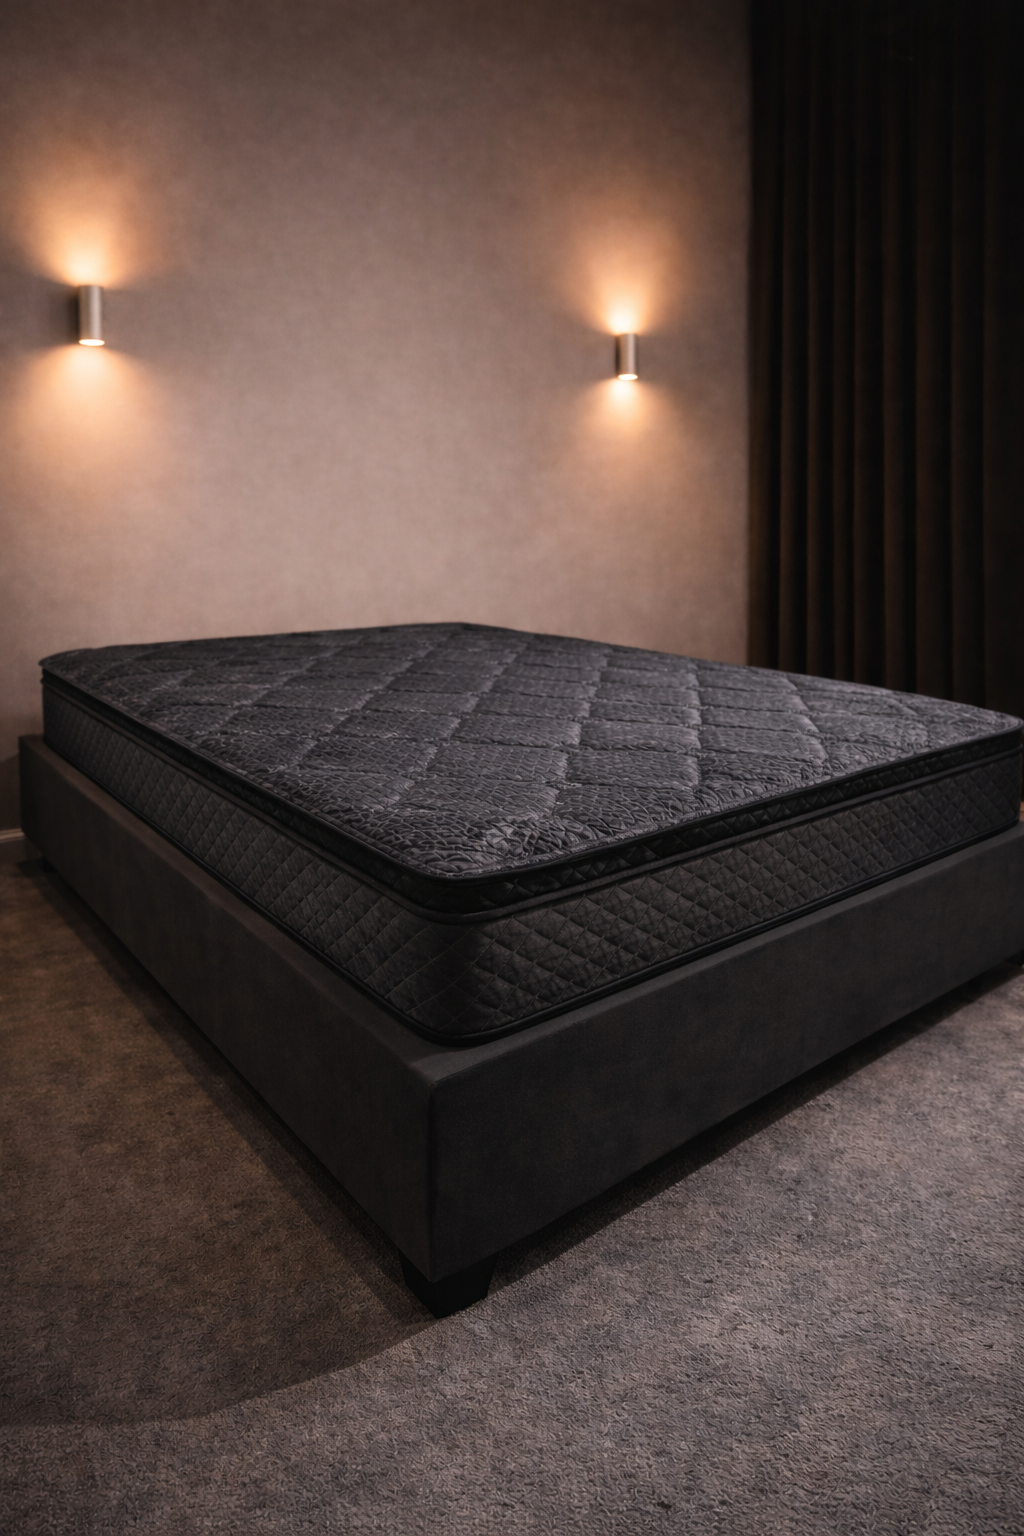
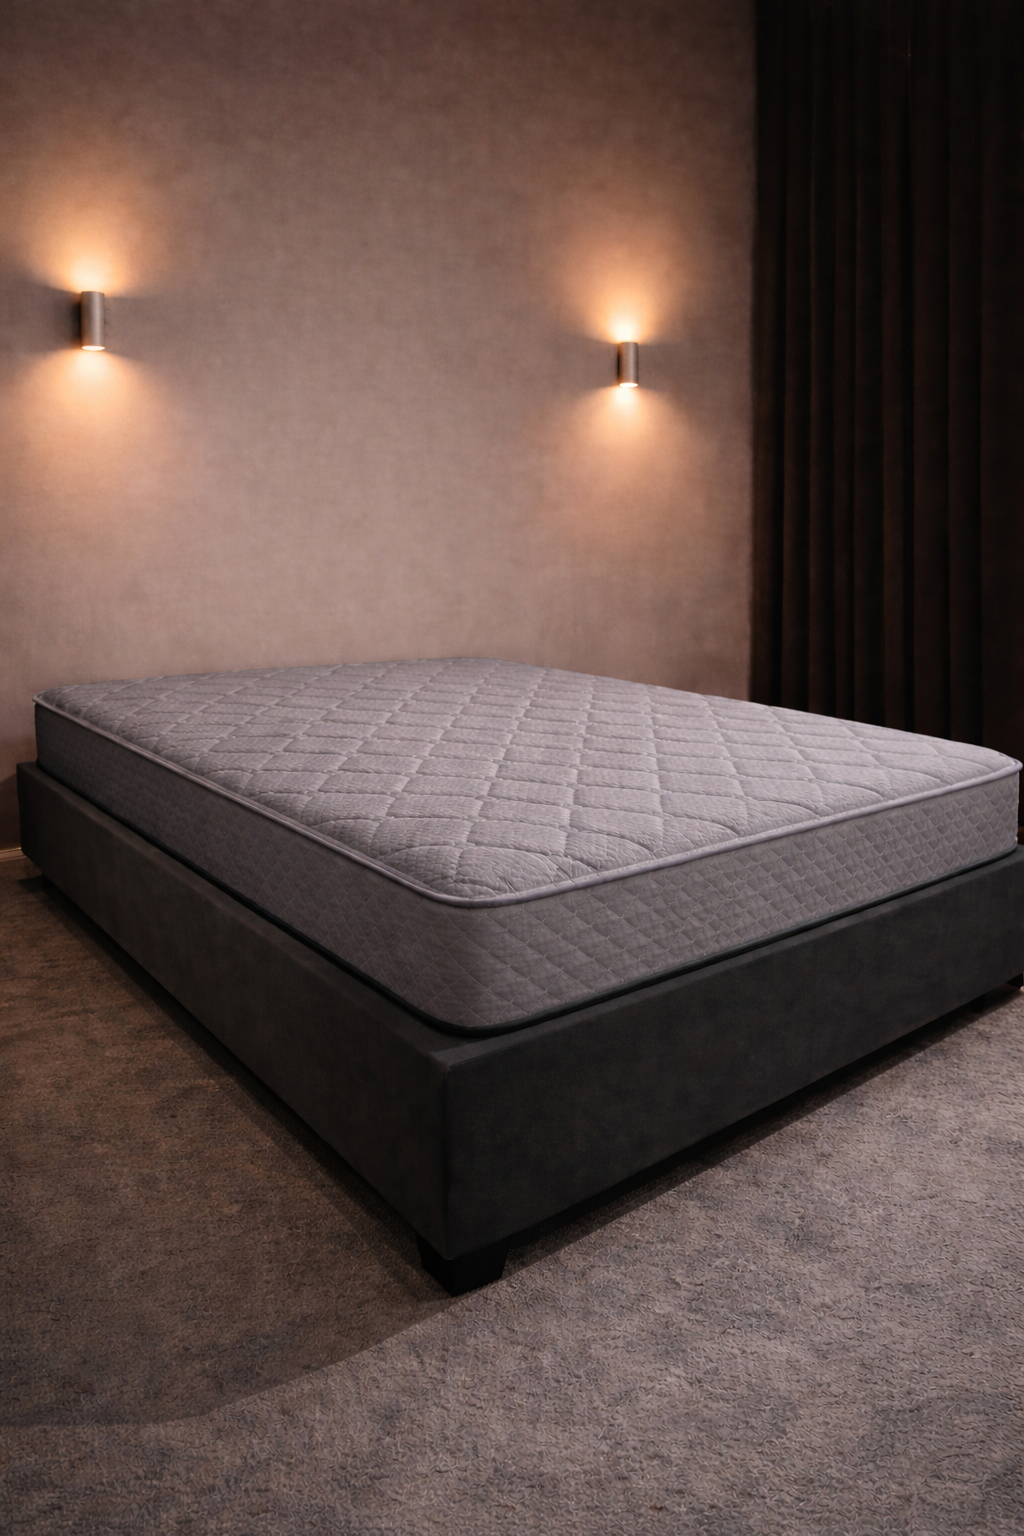
as
asd

diff --git a/baza-yatak.html b/baza-yatak.html
@@ -283,9 +283,7 @@
             font-size: 1.3rem;
         }
 
-        /* --- YENİ EKLENEN: KAYDIRMA İPUÇLARI --- */
-
-        /* 1. Navigasyon Okları (Sağ/Sol) */
+        /* KAYDIRMA İPUÇLARI */
         .swiper-button-next,
         .swiper-button-prev {
             color: var(--gold) !important;
@@ -302,7 +300,6 @@
             font-weight: bold;
         }
 
-        /* 2. Animasyonlu El İpucu */
         .swipe-instruction {
             position: fixed;
             top: 50%;
@@ -310,7 +307,6 @@
             transform: translate(-50%, -50%);
             z-index: 9999;
             pointer-events: none;
-            /* Tıklamayı engellemesin */
             display: flex;
             flex-direction: column;
             align-items: center;
@@ -319,8 +315,6 @@
             padding: 20px;
             border-radius: 20px;
             color: #fff;
-
-            /* Animasyon: Görün -> Kaydır -> Yok Ol */
             animation: fadeOutHint 3.5s forwards;
         }
 
@@ -369,7 +363,6 @@
             }
         }
 
-
         /* --- MASAÜSTÜ (PC) İÇİN HİBRİT AYAR --- */
         @media (min-width: 768px) {
             .swiper-catalog {
@@ -412,7 +405,6 @@
                 transform: translateX(-50%);
             }
 
-            /* PC'de el animasyonuna gerek yok */
             .swipe-instruction {
                 display: none;
             }
@@ -446,40 +438,61 @@
             <div class="swiper-slide">
                 <div class="p-image-area"><img src="img/duz_baza.jpg"></div>
                 <div class="p-info-area">
-                    <div class="p-title">Düz Baza Seti</div>
-                    <div class="p-desc">Sade, sandıklı ve kullanışlı baza seti.</div>
+                    <div class="p-title">Atlas Baza Seti</div>
+                    <div class="p-desc">Sade tasarımıyla yatak odanıza ferahlık katan Atlas Baza Seti, beklentilerinizi
+                        aşan bir sağlamlık sunar. Güçlendirilmiş profil iskeleti sayesinde uzun yıllar ilk günkü formunu
+                        korur. Geniş iç hacmi hayatınızı kolaylaştırırken, yüksek ayak yapısı ile robot süpürge
+                        kullanımına tam uyumludur.</div>
                     <div id="list-duz-baza"></div>
                 </div>
             </div>
+
             <div class="swiper-slide">
                 <div class="p-image-area"><img src="img/kapitone_luks.jpg"></div>
                 <div class="p-info-area">
                     <div class="p-title">Kapitone Lüks</div>
-                    <div class="p-desc">Premium kapitone işçilikli set.</div>
+                    <div class="p-desc">Premium işçiliğin göz alıcı şıklığıyla tanışın. Yatak odanıza modern bir zarafet
+                        katarken, ergonomik amortisör sistemiyle eşsiz bir kullanım kolaylığı sunar. Ekstra
+                        güçlendirilmiş çelik konstrüksiyonu uzun ömürlü kullanım sağlarken, yüksek ayakları sayesinde
+                        robot süpürgenizin rahatça temizlik yapmasına olanak tanır.</div>
                     <div id="list-kapitone-luks"></div>
                 </div>
             </div>
+
             <div class="swiper-slide">
                 <div class="p-image-area"><img src="img/kare_kapitone.jpg"></div>
                 <div class="p-info-area">
                     <div class="p-title">Kare Kapitone</div>
-                    <div class="p-desc">Modern kare dikişli set.</div>
+                    <div class="p-desc">Modern geometrik çizgileri ve kusursuz el işçiliğini bir araya getiren estetik
+                        harikası. Kusursuz şıklığının yanı sıra açılıp kapanırken sağladığı hafiflik ve konforla günlük
+                        hayatınızı kolaylaştırır. Dayanıklı iç yapısı yıllara meydan okurken, robot süpürgelere uygun
+                        yüksek ayak tasarımıyla temizliği dert olmaktan çıkarır.</div>
                     <div id="list-kare-kapitone"></div>
                 </div>
             </div>
+
             <div class="swiper-slide">
                 <div class="p-image-area"><img src="img/havuzlu_bubble.jpg"></div>
                 <div class="p-info-area">
                     <div class="p-title">Havuzlu Bubble</div>
-                    <div class="p-desc">Havuzlu sistem yatak kaymasını önler.</div>
+                    <div class="p-desc">Koleksiyonumuzun en iddialı ve tartışmasız en premium parçası! Yatağın kaymasını
+                        kesin olarak önleyen özel havuz sistemi ve fütüristik bubble tasarımıyla yatak odanızı lüks bir
+                        suit odaya çevirir. Kelimenin tam anlamıyla "ömürlük" bir kullanım sunan bu modelimizi zevkinize
+                        göre ister şık yüksek ayaklarıyla, isterseniz yere sıfır ayaksız formda kullanabilirsiniz.
+                        Ayaklı kullanım tercih edildiğinde robot süpürgelerle kusursuz uyum içindedir.</div>
                     <div id="list-havuzlu-bubble"></div>
                 </div>
             </div>
+
             <div class="swiper-slide">
                 <div class="p-image-area"><img src="img/havuzlu_chester.jpg"></div>
                 <div class="p-info-area">
                     <div class="p-title">Havuzlu Chester</div>
-                    <div class="p-desc">Klasik chester ve havuzlu baza uyumu.</div>
+                    <div class="p-desc">Klasik Chester asaletinin havuzlu baza inovasyonuyla harmanlandığı, premium
+                        kalitenin zirve noktası! İhtişamlı görüntüsünün ardında, nesilden nesile aktarabileceğiniz
+                        "ömürlük" bir dayanıklılık yatar. Havuzlu yapısı yataktaki hareketliliği engeller. Tercihinize
+                        bağlı olarak ihtişamlı ayaklarıyla yükseltebilir veya tamamen yere oturan ayaksız konseptte
+                        kullanabilirsiniz. Ayaklı kurulumda robot süpürge geçişine tam imkan sağlar.</div>
                     <div id="list-havuzlu-chester"></div>
                 </div>
             </div>
@@ -488,47 +501,72 @@
                 <div class="p-image-area"><img src="img/yatak_tavsan1.jpg"></div>
                 <div class="p-info-area">
                     <div class="p-title">Tavşan Tüyü Pedsiz</div>
-                    <div class="p-desc">Dengeli konfor, özel dokulu.</div>
+                    <div class="p-desc">Yüzeyde düz bir görünüm sevenler için özel tasarım! Standart yataklardan çok
+                        daha kalın ve dolgun bir yapıya sahiptir. Konforu zirveye taşıyan özel ped katmanı, yatağın iç
+                        kısmına ustalıkla gizlenmiştir. Birbirinden bağımsız çalışan Pocket (Paket) Yay sistemi ve tam
+                        ortopedik yapısı sayesinde omurganıza kusursuz destek verir, eşlerin dönüş hareketlerini
+                        birbirine hissettirmez.</div>
                     <div id="list-tavsan-pedsiz"></div>
                 </div>
             </div>
+
             <div class="swiper-slide">
                 <div class="p-image-area"><img src="img/yatak_tavsan2.jpg"></div>
                 <div class="p-info-area">
                     <div class="p-title">Tavşan Tüyü Pedli</div>
-                    <div class="p-desc">Ekstra yumuşak ped ile yüksek konfor.</div>
+                    <div class="p-desc">Üst yüzeyindeki belirgin ped katmanı sayesinde çarşaf kullanımını son derece
+                        kolaylaştıran, pratik ve lüks bir deneyim. Diğer modellerimize kıyasla çok daha yumuşak ve esnek
+                        bir sünger katmanına sahiptir. Tam ortopedik Pocket (Paket) Yay sistemi ile donatılan bu ürün,
+                        vücudunuzun tüm boşluklarını doldurarak kesintisiz bir uyku sunar.</div>
                     <div id="list-tavsan-pedli"></div>
                 </div>
             </div>
+
             <div class="swiper-slide">
                 <div class="p-image-area"><img src="img/yatak_afrika.jpg"></div>
                 <div class="p-info-area">
                     <div class="p-title">Afrika Lüks</div>
-                    <div class="p-desc">Çocuk gelişim serisi (Ecem).</div>
+                    <div class="p-desc">Özellikle çocuk ve genç gelişimi için ortopedistler tarafından da önerilen,
+                        sağlıklı ve sert yüzeyli uzman yatağımız. Dünyaca ünlü İşbir marka sünger kalitesi ve yıllara
+                        meydan okuyan klasik Bonel Yay sistemiyle üretilmiştir. Gelişim çağındaki bireylerin omurga
+                        sağlığını koruyan sağlam ve dirençli bir yapıya sahiptir.</div>
                     <div id="list-afrika-luks"></div>
                 </div>
             </div>
+
             <div class="swiper-slide">
                 <div class="p-image-area"><img src="img/yatak_asya.jpg"></div>
                 <div class="p-info-area">
                     <div class="p-title">Asya Lüks</div>
-                    <div class="p-desc">Düz yapı, tam destek (Tutku).</div>
+                    <div class="p-desc">Afrika modelimizin sağlıklı çocuk gelişim felsefesini ve Bonel Yay
+                        dayanıklılığını, daha yumuşak bir yatış deneyimi arayanlar için yeniden yorumladık. Üst düzey
+                        İşbir marka sünger katmanının daha yumuşak formda kullanıldığı bu model, sağlıklı gelişimi
+                        maksimum konforla buluşturur.</div>
                     <div id="list-asya-luks"></div>
                 </div>
             </div>
+
             <div class="swiper-slide">
                 <div class="p-image-area"><img src="img/yatak_avrupa.jpg"></div>
                 <div class="p-info-area">
                     <div class="p-title">Avrupa Jumbo</div>
-                    <div class="p-desc">Kalın pedli üst yüzey.</div>
+                    <div class="p-desc">Gücünü ekstra dayanıklı Herkül Yay sisteminden alan, çok yüksek ağırlıkları dahi
+                        yıllarca hiçbir bozulma ve çökme yaşamadan taşıyabilen devasa bir sağlamlık abidesi. Bu sert ve
+                        dayanıklı yayın üzeri, size bulutların üzerinde hissettirecek ekstra yumuşak bir ped tabakasıyla
+                        kaplanmıştır. Hem sarsılmaz bir güç hem de kusursuz bir yumuşaklık arayanlar için idealdir.
+                    </div>
                     <div id="list-avrupa-jumbo"></div>
                 </div>
             </div>
+
             <div class="swiper-slide">
                 <div class="p-image-area"><img src="img/yatak_antartika.jpg"></div>
                 <div class="p-info-area">
                     <div class="p-title">Antartika Pedli</div>
-                    <div class="p-desc">Serinletici özel kumaş.</div>
+                    <div class="p-desc">Avrupa Jumbo'nun yüksek ağırlık taşıma kapasitesini ve yenilmez Herkül Yay
+                        sistemini baz alan, sıcak yaz aylarına özel mucizevi yatağımız. Ekstra yumuşak konfor pedinin
+                        üzerinde kullanılan özel serinletici kumaş teknolojisi, terlemeyi minimize ederek en sıcak
+                        gecelerde bile ferah ve dinlendirici bir uyku vadeder.</div>
                     <div id="list-antartika-pedli"></div>
                 </div>
             </div>
@@ -554,20 +592,21 @@
     <script>
         // --- VERİ TABANI ---
         const sets = [
-            { id: "list-duz-baza", name: "Düz Baza Seti", prices: [9750, 11000, 12000, 14000, 15000] },
-            { id: "list-kapitone-luks", name: "Kapitone Lüks", prices: [11000, 12000, 14000, 15500, 16000] },
-            { id: "list-kare-kapitone", name: "Kare Kapitone", prices: [11000, 12000, 14000, 15500, 16000] },
-            { id: "list-havuzlu-bubble", name: "Havuzlu Bubble", prices: [15000, 16500, 18500, 23000, 23500] },
-            { id: "list-havuzlu-chester", name: "Havuzlu Chester", prices: [15000, 16500, 18500, 23000, 23500] }
+            // İsim 'Atlas' olarak güncellendi, ID list-duz-baza olarak korundu ki kod bozulmasın
+            { id: "list-duz-baza", name: "Atlas Baza Seti", prices: [11200, 12650, 13800, 16100, 17250] },
+            { id: "list-kapitone-luks", name: "Kapitone Lüks", prices: [12650, 13800, 16100, 17850, 18400] },
+            { id: "list-kare-kapitone", name: "Kare Kapitone", prices: [12650, 13800, 16100, 17850, 18400] },
+            { id: "list-havuzlu-bubble", name: "Havuzlu Bubble", prices: [17250, 19000, 21300, 26450, 27050] },
+            { id: "list-havuzlu-chester", name: "Havuzlu Chester", prices: [17250, 19000, 21300, 26450, 27050] }
         ];
 
         const beds = [
-            { id: "list-tavsan-pedsiz", name: "Tavşan Tüyü Pedsiz", pre: [5000, 5250, 6500, 7400, 8000], eco: [4100, 4200, 5000, 5500, 6000] },
-            { id: "list-tavsan-pedli", name: "Tavşan Tüyü Pedli", pre: [5490, 5600, 7000, 8500, 9000], eco: [4400, 4500, 5400, 6000, 6500] },
-            { id: "list-afrika-luks", name: "Afrika Lüks", pre: [3500, 3650, 4500, 5000, 5500], eco: [2800, 2900, 3750, 4250, 4250] },
-            { id: "list-asya-luks", name: "Asya Lüks", pre: [4050, 4250, 5050, 6000, 6000], eco: [3200, 3300, 4000, 4500, 4500] },
-            { id: "list-avrupa-jumbo", name: "Avrupa Jumbo", pre: [4500, 4700, 5500, 6500, 7000], eco: [4000, 4100, 4600, 5100, 5600] },
-            { id: "list-antartika-pedli", name: "Antartika Pedli", pre: [4750, 4950, 5750, 6750, 7250], eco: [4250, 4350, 4850, 5350, 5850] }
+            { id: "list-tavsan-pedsiz", name: "Tavşan Tüyü Pedsiz", pre: [5750, 6050, 7500, 8500, 9200], eco: [4700, 4850, 5750, 6350, 6900] },
+            { id: "list-tavsan-pedli", name: "Tavşan Tüyü Pedli", pre: [6300, 6450, 8050, 9800, 10350], eco: [5050, 5200, 6200, 6900, 7500] },
+            { id: "list-afrika-luks", name: "Afrika Lüks", pre: [4050, 4200, 5200, 5750, 6350], eco: [3200, 3350, 4300, 4900, 4900] },
+            { id: "list-asya-luks", name: "Asya Lüks", pre: [4650, 4900, 5800, 6900, 6900], eco: [3700, 3800, 4600, 5200, 5200] },
+            { id: "list-avrupa-jumbo", name: "Avrupa Jumbo", pre: [5200, 5400, 6350, 7500, 8050], eco: [4600, 4700, 5300, 5850, 6450] },
+            { id: "list-antartika-pedli", name: "Antartika Pedli", pre: [5450, 5700, 6600, 7750, 8350], eco: [4900, 5000, 5600, 6150, 6750] }
         ];
 
         const sizes = ["90x190", "100x200", "120x200", "150x200", "160x200"];
